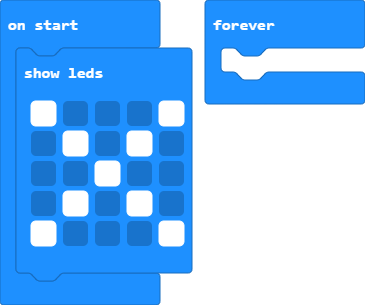
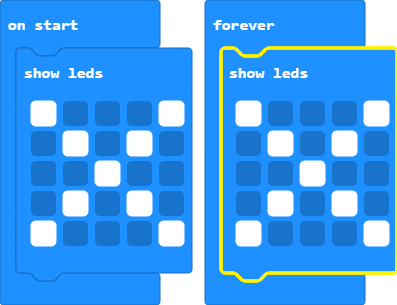
Update main.blocks, main.ts

diff --git a/main.ts b/main.ts
@@ -6,5 +6,11 @@ basic.showLeds(`
     # . . . #
     `)
 basic.forever(function () {
-	
+    basic.showLeds(`
+        # . . . #
+        . # . # .
+        . . # . .
+        . # . # .
+        # . . . #
+        `)
 })
